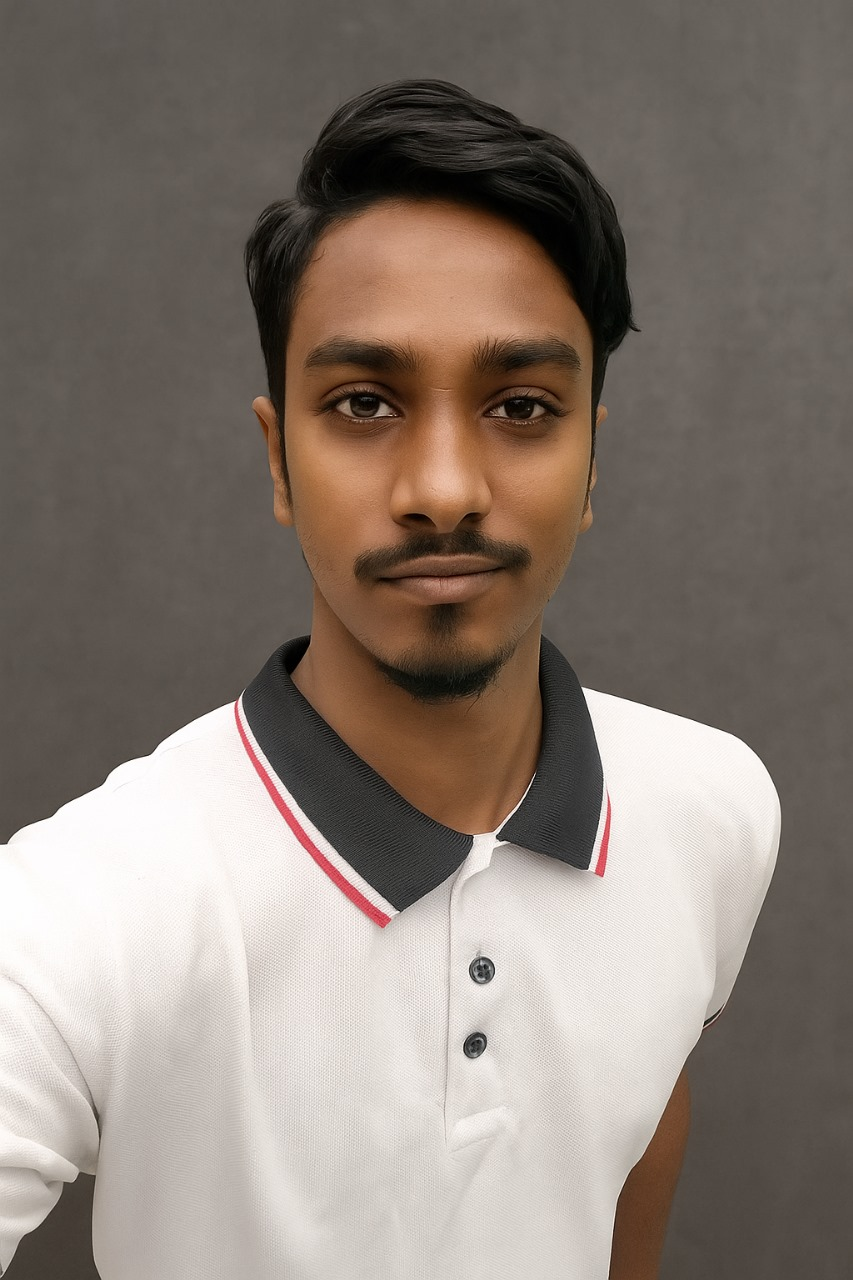
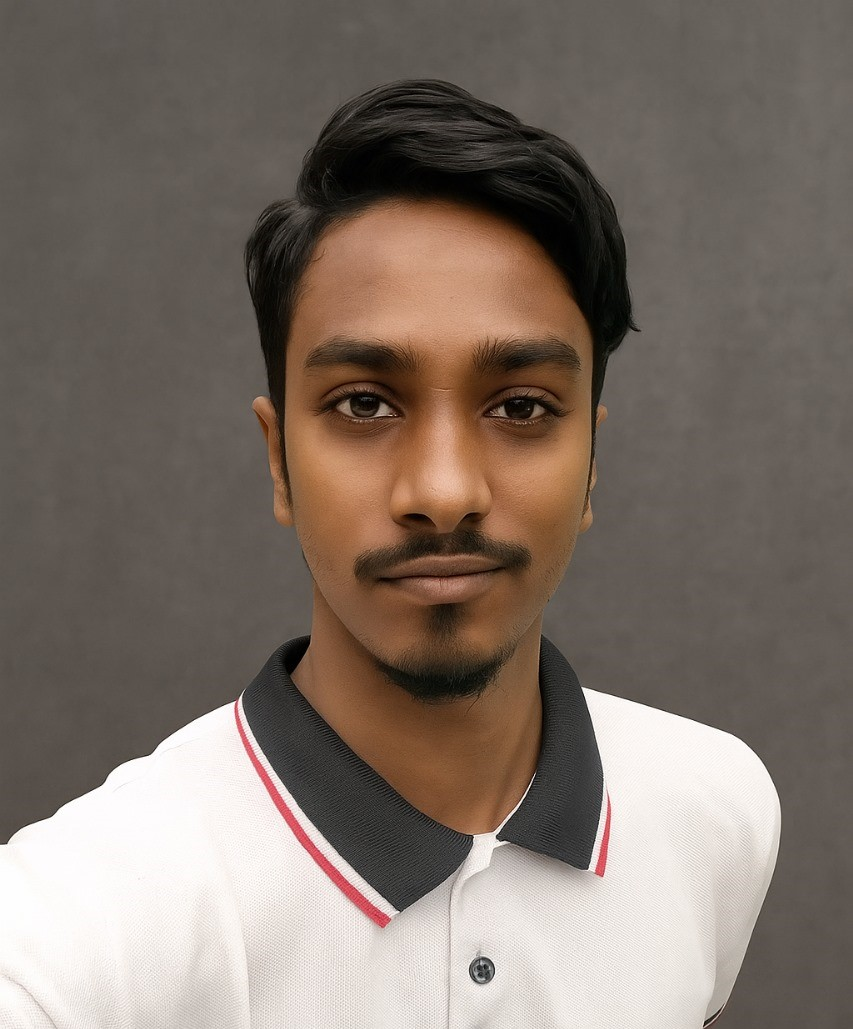
Solved the image problem of home page development team

diff --git a/src/components/FeaturedChefs.jsx b/src/components/FeaturedChefs.jsx
@@ -6,15 +6,15 @@ import AlAminImg from '../assets/Al Amin.jpg';
 
 export default function FeaturedChefs() {
 	const chefs = [
-		{ name: 'A.K.Jilani', role: 'Chef', img: JilaniImg },
-		{ name: 'Zareer', role: 'Baker', img: ZareerImg },
-		{ name: 'Faiyaz', role: 'Food Blogger', img: FaiyazImg },
-		{ name: 'Shafayet', role: 'Food Reviewer', img: ShafayetImg },
-		{ name: 'Al Amin', role: 'Recipe Expert', img: AlAminImg },
+		{ name: 'Abdul Kader Jilani', role: 'Team Leader', img: JilaniImg },
+		{ name: 'Khandakar Zareer', role: 'Team Member', img: ZareerImg },
+		{ name: 'Faiyaz Mahmud Toha', role: 'Team Member', img: FaiyazImg },
+		{ name: 'Shafayet Salehin', role: 'Team Member', img: ShafayetImg },
+		{ name: 'Al Amin', role: 'Team Member', img: AlAminImg },
 	]
 	return (
 		<section className="max-w-6xl mx-auto px-4 py-12">
-			<h2 className="text-xl font-semibold mb-6">Featured Chefs</h2>
+			<h2 className="text-xl font-semibold mb-6">The Chefs Behind the Code of FOODIELAND</h2>
 			<div className="grid grid-cols-2 md:grid-cols-5 gap-6">
 				{chefs.map((c, i) => (
 					<div key={i} className="border rounded-xl bg-white p-4 text-center">
